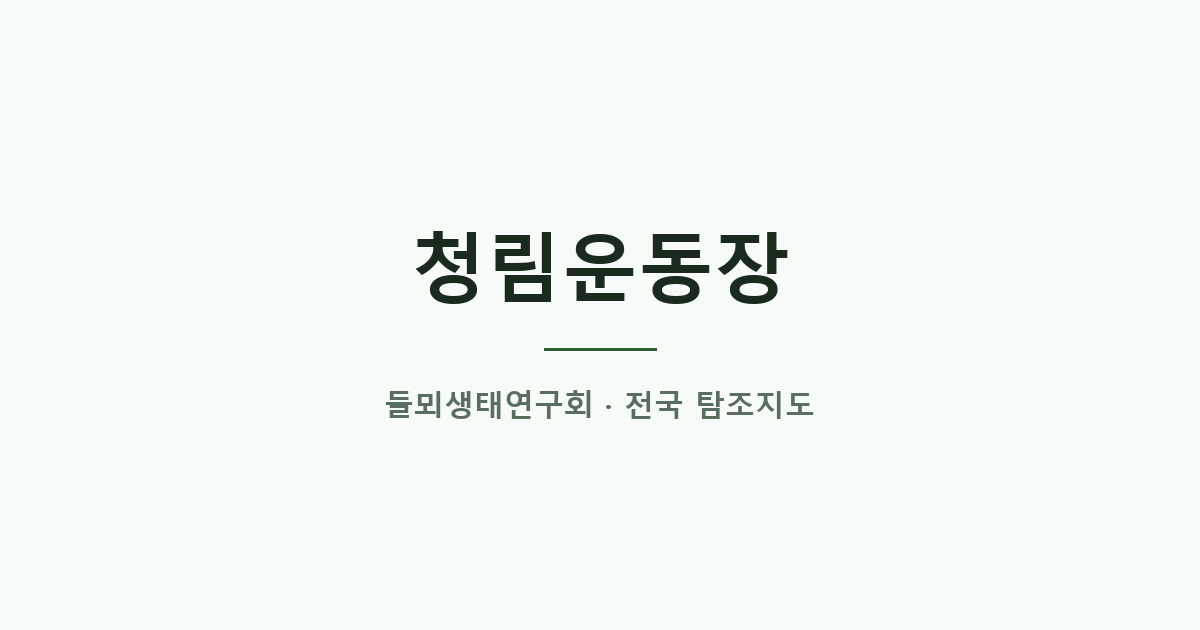
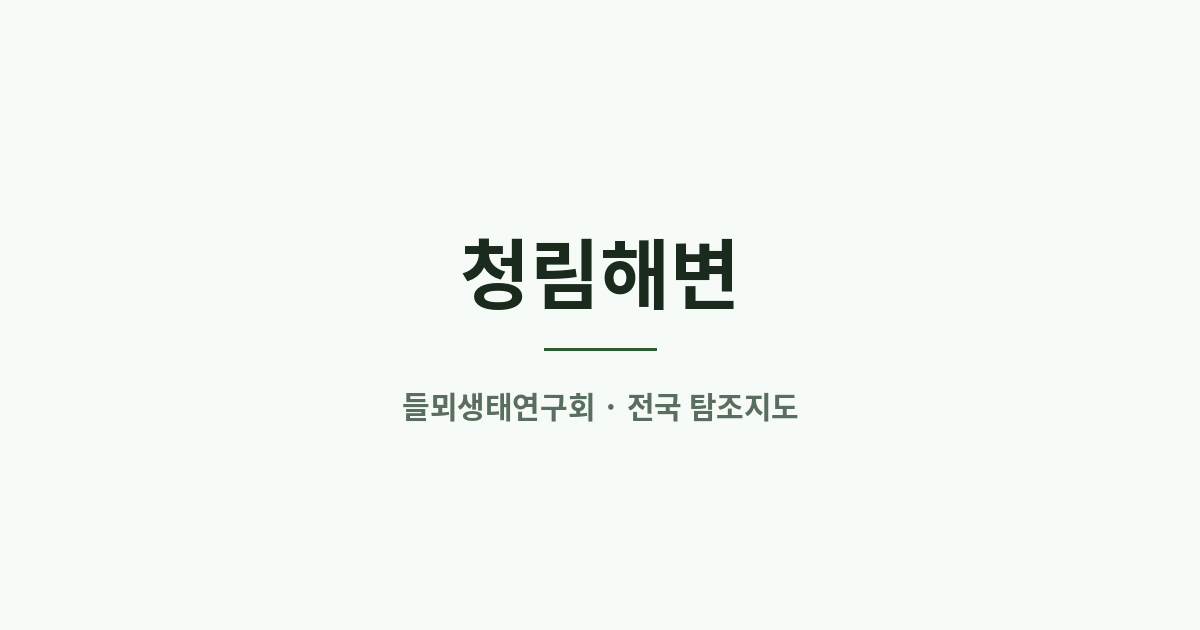
chore: rebuild share pages

Changed region(s): [[0.3392, 0.3619, 0.6783, 0.5127], [0.3083, 0.6032, 0.4933, 0.6937], [0.5242, 0.6032, 0.6783, 0.6635]]

diff --git a/share/50/index.html b/share/50/index.html
@@ -3,13 +3,13 @@
 <head>
 <meta charset="utf-8">
 <meta name="viewport" content="width=device-width,initial-scale=1">
-<title>청림운동장 — 전국 탐조지도 | 들뫼생태연구회</title>
+<title>청림해변 — 전국 탐조지도 | 들뫼생태연구회</title>
 <meta name="description" content="경북 포항 · 해안·갯벌 · 바닷새·갈매기류 파고와 풍향 확인이 핵심 들뫼생태연구회 전국 탐조지도에서 기상·조석과 탐조 정보를 확인하세요.">
 <link rel="canonical" href="https://wooil1964.github.io/birdmap/share/50/">
 <meta property="og:type" content="article">
 <meta property="og:site_name" content="들뫼생태연구회 전국 탐조지도">
 <meta property="og:locale" content="ko_KR">
-<meta property="og:title" content="청림운동장 — 전국 탐조지도">
+<meta property="og:title" content="청림해변 — 전국 탐조지도">
 <meta property="og:description" content="경북 포항 · 해안·갯벌 · 바닷새·갈매기류 파고와 풍향 확인이 핵심 들뫼생태연구회 전국 탐조지도에서 기상·조석과 탐조 정보를 확인하세요.">
 <meta property="og:url" content="https://wooil1964.github.io/birdmap/share/50/">
 <meta property="og:image" content="https://wooil1964.github.io/birdmap/share/og/50.png?v=2">
@@ -17,9 +17,9 @@
 <meta property="og:image:type" content="image/png">
 <meta property="og:image:width" content="1200">
 <meta property="og:image:height" content="630">
-<meta property="og:image:alt" content="청림운동장 탐조지 미리보기 이미지">
+<meta property="og:image:alt" content="청림해변 탐조지 미리보기 이미지">
 <meta name="twitter:card" content="summary_large_image">
-<meta name="twitter:title" content="청림운동장 — 전국 탐조지도">
+<meta name="twitter:title" content="청림해변 — 전국 탐조지도">
 <meta name="twitter:description" content="경북 포항 · 해안·갯벌 · 바닷새·갈매기류 파고와 풍향 확인이 핵심 들뫼생태연구회 전국 탐조지도에서 기상·조석과 탐조 정보를 확인하세요.">
 <meta name="twitter:image" content="https://wooil1964.github.io/birdmap/share/og/50.png?v=2">
 <style>
@@ -40,12 +40,12 @@ a.open{display:inline-block;padding:12px 18px;background:#2e5d34;color:#fff;bord
 <body>
 <div class="wrap">
 <p class="brand">들뫼생태연구회 · 전국 탐조지도</p>
-<h1>청림운동장</h1>
+<h1>청림해변</h1>
 <p class="intro">경북 포항 · 해안·갯벌 · 바닷새·갈매기류 파고와 풍향 확인이 핵심 들뫼생태연구회 전국 탐조지도에서 기상·조석과 탐조 정보를 확인하세요.</p>
-<img class="card" src="../og/50.png?v=2" width="1200" height="630" alt="청림운동장 탐조지 미리보기 이미지">
+<img class="card" src="../og/50.png?v=2" width="1200" height="630" alt="청림해변 탐조지 미리보기 이미지">
 <dl><div class="row"><dt>지역</dt><dd>경북 포항</dd></div><div class="row"><dt>환경유형</dt><dd>해안·갯벌</dd></div><div class="row"><dt>대표 조류군</dt><dd>바닷새·갈매기류</dd></div><div class="row"><dt>추천 시기</dt><dd>연중·이동기</dd></div></dl>
 <p><a class="open" href="../../?site=50">탐조지도 열기</a></p>
-<p class="note">잠시 후 탐조지도의 청림운동장 위치로 이동합니다. 바로 가려면 위 버튼을 누르세요.</p>
+<p class="note">잠시 후 탐조지도의 청림해변 위치로 이동합니다. 바로 가려면 위 버튼을 누르세요.</p>
 </div>
 <script>
 /* 사람이 보는 브라우저에서만 이동한다. 미리보기 수집기는 이 스크립트를 실행하지 않으므로
